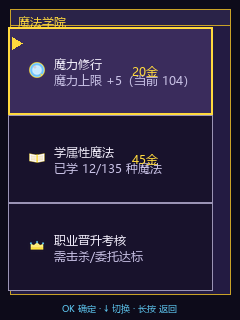
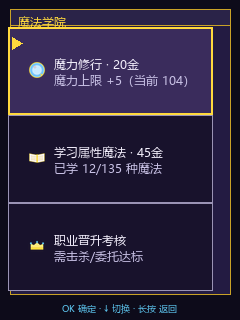
fix(mage): 学院页价格并入名字消除压字 + 全局副标题省略号保险 + 对比图重排为并排
真 bug（设备实测重叠）：学院页副标题 x=46 起点、右列价格固定在 ROW_W-80=124，
而 sub='魔力上限 +5（当前104）' 12 字远超 78px 可用宽 → 必压右列价格。
根因是固件自作主张把价格挪到右列，与 HTML 原版设计（'魔力修行 · 20金' 价格并入名字、
无独立右列）不符。

固件修复（对齐 HTML 原版）：
- 学院页三行价格并入名字（'魔力修行 · %d金' / '学习属性魔法 · 45金'），右列清空
- menu_list_render 新增副标题宽度约束：有右列内容时收紧到 72px、无右列放宽到整行，
  一律 lv_label_set_long_mode(LONG_DOT) —— 任何行（公会/委托/秘境等）副标题超宽自动省略号，
  永不压到右列价格/动作（之前无 long-mode，EXPAND 模式宽度被忽略才溢出）
- 新增字符 '·' 已在字库 EXTRA 列表，无需重烘焙

预览：ACADEMY_ROWS 改镜像固件（价格进名字）；draw_list_row 加 truncate 逻辑镜像 LONG_DOT；
总览图重排为每行『修复前|修复后』并排，行首标题写明修哪项，杜绝交错布局误读。

Changed region(s): [[0.2625, 0.4375, 0.525, 0.5], [0.5542, 0.4375, 0.6708, 0.5312], [0.4667, 0.1875, 0.6708, 0.25]]

diff --git a/tools/preview_mage_fixes.py b/tools/preview_mage_fixes.py
@@ -225,8 +225,14 @@ def load_monster(type_key, th=40, max_w=44):
 # ---------------- 第六批数据（与固件真实文案/物种一一对应） ----------------
 # 学院页：3 行（g_menu.n=3），旧几何留下大片空白；新几何铺满。
 ACADEMY_ROWS = [
-    ("sp_icon_orb",   "魔力修行",     "魔力上限 +5（当前 104）", "20金"),
-    ("sp_icon_book",  "学属性魔法",   "已学 12/135 种魔法",      "45金"),
+    ("sp_icon_orb",   "魔力修行 · 20金",  "魔力上限 +5（当前 104）", ""),
+    ("sp_icon_book",  "学习属性魔法 · 45金", "已学 12/135 种魔法",    ""),
+    ("sp_icon_crown", "职业晋升考核",      "需击杀/委托达标",         ""),
+]
+# 旧固件（修复前）数据：价格误占右列 + 副标题过长，二者互相压字
+ACADEMY_ROWS_OLD = [
+    ("sp_icon_orb",   "魔力修行",   "魔力上限 +5（当前 104）", "20金"),
+    ("sp_icon_book",  "学属性魔法", "已学 12/135 种魔法",      "45金"),
     ("sp_icon_crown", "职业晋升考核", "需击杀/委托达标",         ""),
 ]
 # 角色页【旧版】6 行（板上现状）：职级塞等级行右列，与长 sub 互相压字 + 顶部立绘占 88px
@@ -270,7 +276,7 @@ def draw_frame(d, frame_h, title):
 
 
 def draw_list_row(d, im, x, y, w, h, icon, name, sub, rgt,
-                  rgt_w=76, rgt_xoff=80, sel=False, clip_rgt=False):
+                  rgt_w=76, rgt_xoff=80, sel=False, clip_rgt=False, truncate=True):
     if sel:
         round_rect(d, [x, y, x + w, y + h], 0, fill=(58, 44, 92), outline=C_GOLD, width=2)
         d.polygon([(x + 4, y + 10), (x + 4, y + 22), (x + 14, y + 16)], fill=C_GOLD)
@@ -281,8 +287,18 @@ def draw_list_row(d, im, x, y, w, h, icon, name, sub, rgt,
     im.paste(ic, (x + 18, iy), ic)
     top = y + (h - 31) // 2
     d.text((x + 46, top + 1), name, font=F12, fill=C_WHITE)
-    d.text((x + 46, top + 17), sub, font=F12, fill=C_SUB)
+    # 副标题超宽保护：有右列时收紧到 72px（46→118，给右列留位），超出加「…」，
+    # 严格镜像固件 lv_label_set_long_mode(LONG_DOT)——任何行都不会压到右列价格/动作。
+    sub_draw = sub
     rx = x + w - rgt_xoff
+    if rgt and truncate:
+        avail = (rx - 6) - (x + 46)
+        if F12.getlength(sub) > avail:
+            s = sub
+            while s and F12.getlength(s + "…") > avail:
+                s = s[:-1]
+            sub_draw = s + "…"
+    d.text((x + 46, top + 17), sub_draw, font=F12, fill=C_SUB)
     ry = y + (h - 15) // 2
     if clip_rgt:
         # 模拟旧右列裁切：先画，再用单元格底色盖掉溢出部分，并画红裁切线标出旧 56px 边界
@@ -298,13 +314,16 @@ def draw_list_row(d, im, x, y, w, h, icon, name, sub, rgt,
 def draw_academy(d, im, before):
     d.rectangle([0, 0, W, H], fill=C_BG)
     if before:
-        # 旧：frame 固定 270 高，pitch 固定 34，3 行挤在顶部，下方大片空白
+        # 旧：frame 固定 270 高，pitch 固定 34，3 行挤在顶部，下方大片空白；
+        # 价格误占右列 + 副标题过长 → 互相压字（truncate=False 忠实复现旧 bug）
         draw_frame(d, 270, "魔法学院")
         y0, pitch, row_h = 27, 34, 33
-        for i, (ic, nm, sub, rgt) in enumerate(ACADEMY_ROWS):
-            draw_list_row(d, im, ROW_X, y0 + i * pitch, ROW_W, row_h, ic, nm, sub, rgt, sel=(i == 0))
+        for i, (ic, nm, sub, rgt) in enumerate(ACADEMY_ROWS_OLD):
+            draw_list_row(d, im, ROW_X, y0 + i * pitch, ROW_W, row_h, ic, nm, sub, rgt,
+                          sel=(i == 0), truncate=False)
     else:
-        # 新：pitch=(294-27)/3≈89→cap88，rowH=87，框高随内容自适应到 284
+        # 新：pitch=(294-27)/3≈89→cap88，rowH=87，框高随内容自适应到 284；
+        # 价格按 HTML 原版并入名字（'魔力修行 · 20金'），右列清空，无任何压字
         pitch = (294 - 27) // len(ACADEMY_ROWS)
         if pitch > 88:
             pitch = 88
@@ -341,7 +360,8 @@ def draw_status(d, im, before):
         except Exception:
             pass
         for i, (ic, nm, sub, rgt) in enumerate(rows):
-            draw_list_row(d, im, ROW_X, y0 + i * pitch, ROW_W, row_h, ic, nm, sub, rgt, sel=(i == 0))
+            draw_list_row(d, im, ROW_X, y0 + i * pitch, ROW_W, row_h, ic, nm, sub, rgt,
+                          sel=(i == 0), truncate=False)  # 忠实复现旧版职级压字
     else:
         # 新：去立绘、y0=27、7 行动态铺满，职级·Lv 并入等级行 sub，经验独立成行
         rows = STATUS_ROWS_NEW
@@ -452,39 +472,45 @@ def main():
         im.save(os.path.join(OUT, "mage_sixth_%s_240x320.png" % k))
         up2x(im).save(os.path.join(OUT, "mage_sixth_%s_2x.png" % k))
 
-    # 3×2 总览：每格 = 240x320 场景 + 下方 30px 独立说明条（不压场景）
-    CAP_H = 30
-    labels6 = {
-        "academy_before":  ("修复前", "3 行挤在顶部，下方大片空白"),
-        "academy_after":   ("修复后", "行距动态铺满整框，无空白"),
-        "status_before":   ("修复前", "职级塞右列，与经验数字压字"),
-        "status_after":    ("修复后", "职级并入等级行，经验独立行"),
-        "partners_before": ("修复前", "只烘 8 个缩略图，多数空白格"),
-        "partners_after":  ("修复后", "全部 84 只魔物都有缩略图"),
-    }
-    cap_color = {"修复前": (255, 120, 120), "修复后": (127, 220, 138)}
-    OW, OH = W * 3, (H + CAP_H) * 2
+    # 总览：每行一对「修复前 | 修复后」并排对比，行首标题写明修的是哪一项。
+    # 这样「修复后是否干净」一目了然，不会再被交错的布局误读成还有遮挡。
+    CAP_H = 28
+    pairs = [
+        ("① 学院页：列表铺满 + 价格并入名字",
+         "academy_before", "academy_after",
+         "3 行挤顶部+价格压副标题", "动态铺满+价格进名字无压字"),
+        ("② 角色页：职级不再压字（7 行）",
+         "status_before", "status_after",
+         "职级塞右列压经验数字", "职级并等级行·经验独立行"),
+        ("③ 伙伴图鉴：全量立绘",
+         "partners_before", "partners_after",
+         "只烘 8 图·多数空白格", "84 只魔物全有缩略图"),
+    ]
+    OW = W * 2
+    OH = 26 + len(pairs) * (H + CAP_H)
     ov6 = Image.new("RGB", (OW, OH), (16, 12, 32))
     dd = ImageDraw.Draw(ov6)
     dd.rectangle([0, 0, OW, 22], fill=(42, 35, 72))
-    dd.text((OW // 2, 11), "魔法帝之路 · 第六批界面修复对比（240x320 与固件同坐标）",
-            font=F12, fill=C_GOLD, anchor="mm")
-    order6 = ["academy_before", "academy_after",
-              "status_before", "status_after",
-              "partners_before", "partners_after"]
-    for idx, k in enumerate(order6):
-        col, row = idx % 3, idx // 3
-        x, y = col * W, 24 + row * (H + CAP_H)
-        ov6.paste(sixth[k], (x, y))
-        dd.rectangle([x, y, x + W - 1, y + H - 1], outline=C_GOLD, width=1)
-        # 说明条：深底 + 金顶线 + 徽章色前缀
-        cy = y + H
-        dd.rectangle([x, cy, x + W - 1, cy + CAP_H - 1], fill=(24, 18, 44))
-        dd.line([x, cy, x + W - 1, cy], fill=C_GOLD, width=1)
-        tag, desc = labels6[k]
-        dd.text((x + 6, cy + 8), tag, font=F9, fill=cap_color[tag])
-        tw = dd.textlength(tag, font=F9)
-        dd.text((x + 12 + tw, cy + 8), desc, font=F9, fill=C_WHITE)
+    dd.text((OW // 2, 11), "魔法帝之路 · 界面修复对比（左=修复前 / 右=修复后，240x320 与固件同坐标）",
+            font=F9, fill=C_GOLD, anchor="mm")
+    for ri, (title, kb, ka, db, da) in enumerate(pairs):
+        ry = 24 + ri * (H + CAP_H)
+        # 行标题
+        dd.rectangle([0, ry, OW, ry + 18], fill=(30, 24, 54))
+        dd.text((OW // 2, ry + 9), title, font=F9, fill=C_WHITE, anchor="mm")
+        yy = ry + 20
+        for ci, (k, d) in enumerate([(kb, db), (ka, da)]):
+            x = ci * W
+            ov6.paste(sixth[k], (x, yy))
+            dd.rectangle([x, yy, x + W - 1, yy + H - 1], outline=C_GOLD, width=1)
+            cy = yy + H
+            dd.rectangle([x, cy, x + W - 1, cy + CAP_H - 1], fill=(24, 18, 44))
+            dd.line([x, cy, x + W - 1, cy], fill=C_GOLD, width=1)
+            tag = "修复前" if ci == 0 else "修复后"
+            col = (255, 120, 120) if ci == 0 else (127, 220, 138)
+            dd.text((x + 6, cy + 8), tag, font=F9, fill=col)
+            tw = dd.textlength(tag, font=F9)
+            dd.text((x + 12 + tw, cy + 8), d, font=F9, fill=C_WHITE)
     ov6.save(os.path.join(OUT, "mage_sixth_overview_720x704.png"))
     print("written:", os.path.join(OUT, "mage_sixth_overview_720x704.png"))
 

diff --git a/main/mage.c b/main/mage.c
@@ -591,7 +591,8 @@ static void build_ui(void) {
         use_cjk(sb);
         lv_obj_set_style_text_color(sb, C_SUB, 0);
         lv_obj_set_style_text_font(sb, &mage_cjk_12, 0);
-        lv_obj_set_width(sb, 140);
+        lv_obj_set_width(sb, 150);
+        lv_label_set_long_mode(sb, LV_LABEL_LONG_DOT);   /* 超宽自动省略号，绝不压到右列 */
         lv_obj_set_pos(sb, 46, 17);
         g_row_sub[i] = sb;
         lv_obj_t *rg = lv_label_create(b);
@@ -746,6 +747,11 @@ static void menu_list_render(void) {
             lv_label_set_text(g_row_name[i], r->name);
             lv_label_set_text(g_row_sub[i], r->sub ? r->sub : "");
             lv_label_set_text(g_row_rgt[i], r->rgt ? r->rgt : "");
+            /* 副标题宽度约束：有右列内容时收紧到 72px（46→118，给右列留位），
+             * 无右列时放宽到整行；超出一律省略号，永不压到右列价格/动作。 */
+            bool has_rgt = (r->rgt && r->rgt[0]);
+            lv_obj_set_width(g_row_sub[i], has_rgt ? ((ROW_W - 80) - 46 - 6) : (ROW_W - 46 - 6));
+            lv_label_set_long_mode(g_row_sub[i], LV_LABEL_LONG_DOT);
             int y = g_list_y0 + i * pitch;
             lv_obj_set_size(g_row_box[i], ROW_W, rowH);
             lv_obj_set_pos(g_row_box[i], ROW_X, y);
@@ -1238,17 +1244,19 @@ static void refresh_ui(void) {
     case SC_ACAD: {
         acadIdx = clampi(acadIdx, 0, 2);
         int tc = 20 + g.studyCnt * 15;
+        /* 价格按 HTML 原版并入名字（'魔力修行 · 20金'），不另占右列——
+         * 否则右列价格会与下方副标题互相压字（设备实测重叠）。 */
+        char nm0[32], nm1[32];
+        snprintf(nm0, sizeof(nm0), "魔力修行 · %d金", tc);
+        snprintf(nm1, sizeof(nm1), "学习属性魔法 · 45金");
         snprintf(g_menu_sub[0], sizeof(g_menu_sub[0]), "魔力上限 +5（当前 %d）", g.maxMp);
-        snprintf(g_menu_rgt[0], sizeof(g_menu_rgt[0]), "%d金", tc);
         snprintf(g_menu_sub[1], sizeof(g_menu_sub[1]), "已学 %d/135 种魔法", discoveredCount());
-        snprintf(g_menu_rgt[1], sizeof(g_menu_rgt[1]), "45金");
         snprintf(g_menu_sub[2], sizeof(g_menu_sub[2]), "%s",
                  promoteReady() ? "已达考核标准" : "需击杀/委托达标");
-        snprintf(g_menu_rgt[2], sizeof(g_menu_rgt[2]), "%s", promoteReady() ? "A 考核" : "");
         g_menu.n = 3; g_menu.sel = acadIdx;
-        g_menu.rows[0] = (MenuRow){"sp_icon_orb", "魔力修行", g_menu_sub[0], g_menu_rgt[0]};
-        g_menu.rows[1] = (MenuRow){"sp_icon_book", "学属性魔法", g_menu_sub[1], g_menu_rgt[1]};
-        g_menu.rows[2] = (MenuRow){"sp_icon_crown", "职业晋升考核", g_menu_sub[2], g_menu_rgt[2]};
+        g_menu.rows[0] = (MenuRow){"sp_icon_orb", nm0, g_menu_sub[0], ""};
+        g_menu.rows[1] = (MenuRow){"sp_icon_book", nm1, g_menu_sub[1], ""};
+        g_menu.rows[2] = (MenuRow){"sp_icon_crown", "职业晋升考核", g_menu_sub[2], ""};
         lv_label_set_text(g_scene_hint, "OK 确定 · ↓ 切换 · 长按 返回");
         s_b[0] = '\0';
         menu_list_dirty = 1;
